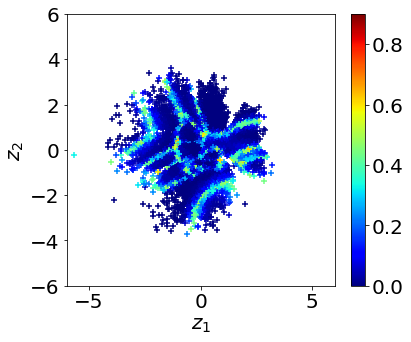
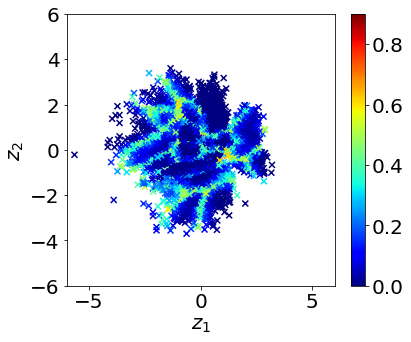
new figures

Changed region(s): [[0.2336, 0.1754, 0.6715, 0.7018], [0.2628, 0.5556, 0.292, 0.614], [0.1752, 0.4386, 0.2044, 0.4678]]

diff --git a/python/ssl_mar/plot.py b/python/ssl_mar/plot.py
@@ -58,8 +58,8 @@ def plot_digits(decoder):
     
 def plot_labeled_unlabeled(z_labeled, y_labeled, z_unlabeled):
     plt.figure(figsize=(6, 5))
-    plt.scatter(z_unlabeled[:, 0], z_unlabeled[:, 1], marker='+', c=(0,0,0), alpha=0.05)
-    plt.scatter(z_labeled[:, 0], z_labeled[:, 1], marker='+', c=y_labeled, cmap=cmap, vmin = -0.5, vmax = 9.5)
+    plt.scatter(z_unlabeled[:, 0], z_unlabeled[:, 1], marker='x', c=(0,0,0), alpha=0.05)
+    plt.scatter(z_labeled[:, 0], z_labeled[:, 1], marker='x', c=y_labeled, cmap=cmap, vmin = -0.5, vmax = 9.5)
     plt.xlabel("$z_1$")
     plt.ylabel("$z_2$")
     plt.xlim([-6, 6])
@@ -70,7 +70,7 @@ def plot_labeled_unlabeled(z_labeled, y_labeled, z_unlabeled):
     
 def plot_maxlrt(z_unlabeled, lrt_y): 
     plt.figure(figsize=(6, 5))
-    plt.scatter(z_unlabeled[:, 0], z_unlabeled[:, 1], c=np.max(lrt_y, axis=1), marker='+', cmap='jet', vmin = -5, vmax = 5)
+    plt.scatter(z_unlabeled[:, 0], z_unlabeled[:, 1], c=np.max(lrt_y, axis=1), marker='x', cmap='jet', vmin = -5, vmax = 5)
     plt.xlabel("$z_1$")
     plt.ylabel("$z_2$")
     plt.xlim([-6, 6])
@@ -123,7 +123,7 @@ def plot_test(z_test, y_test_hat, y_test, pe_test):
     
     
     plt.figure(figsize=(6, 5))
-    plt.scatter(z_test[:, 0], z_test[:, 1], c=pe_test, marker='+', alpha=0.1, cmap='jet', vmin = 0, vmax = .9)
+    plt.scatter(z_test[:, 0], z_test[:, 1], c=pe_test, marker='x', alpha=0.1, cmap='jet', vmin = 0, vmax = .9)
     plt.colorbar()
     plt.xlabel("$z_1$")
     plt.ylabel("$z_2$")
@@ -154,7 +154,7 @@ def plot_test_mcar(z_test, y_test_hat, y_test, pe_test, leftout_classes):
     index_errors_2 = np.nonzero(np.logical_and(y_test != y_test_hat, np.logical_not(np.isin(y_test, leftout_classes))))    
     
     plt.figure(figsize=(6, 5))
-    plt.scatter(z_test[:, 0], z_test[:, 1], c=pe_test, marker='+', cmap='jet', vmin = 0, vmax = .9)
+    plt.scatter(z_test[:, 0], z_test[:, 1], c=pe_test, marker='x', cmap='jet', vmin = 0, vmax = .9)
     plt.colorbar()
     plt.xlabel("$z_1$")
     plt.ylabel("$z_2$")
@@ -177,7 +177,7 @@ def plot_test_mcar_soft(z_test, y_test_hat, y_test, pe_test, leftout_classes):
     index_errors_2 = np.nonzero(np.logical_and(y_test != y_test_hat, np.logical_not(np.isin(y_test, leftout_classes))))    
     
     plt.figure(figsize=(6, 5))
-    plt.scatter(z_test[:, 0], z_test[:, 1], c=pe_test, marker='+', cmap='jet', vmin = 0, vmax = .9)
+    plt.scatter(z_test[:, 0], z_test[:, 1], c=pe_test, marker='x', cmap='jet', vmin = 0, vmax = .9)
     plt.colorbar()
     plt.xlabel("$z_1$")
     plt.ylabel("$z_2$")
@@ -200,7 +200,7 @@ def plot_test_mar(z_test, y_test_hat, y_test, pe_test, leftout_classes):
     index_errors_2 = np.nonzero(np.logical_and(y_test != y_test_hat, np.logical_not(np.isin(y_test, leftout_classes))))    
     
     plt.figure(figsize=(6, 5))
-    plt.scatter(z_test[:, 0], z_test[:, 1], c=pe_test, marker='+', cmap='jet', vmin = 0, vmax = .9)
+    plt.scatter(z_test[:, 0], z_test[:, 1], c=pe_test, marker='x', cmap='jet', vmin = 0, vmax = .9)
     plt.colorbar()
     plt.xlabel("$z_1$")
     plt.ylabel("$z_2$")
